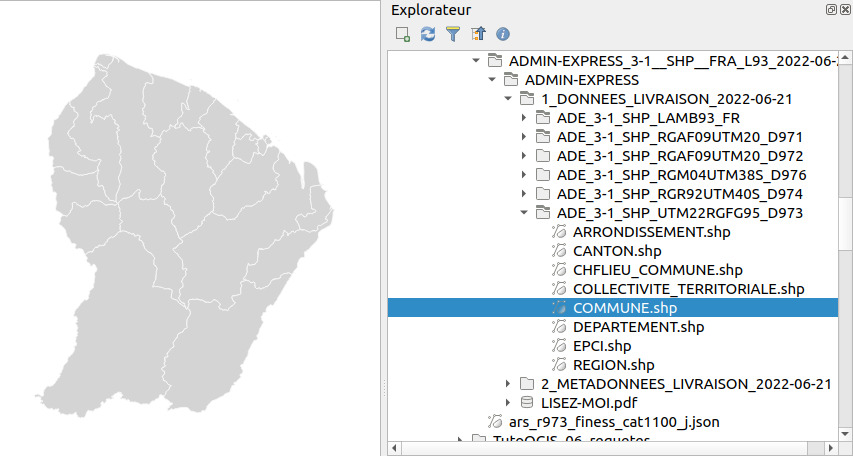
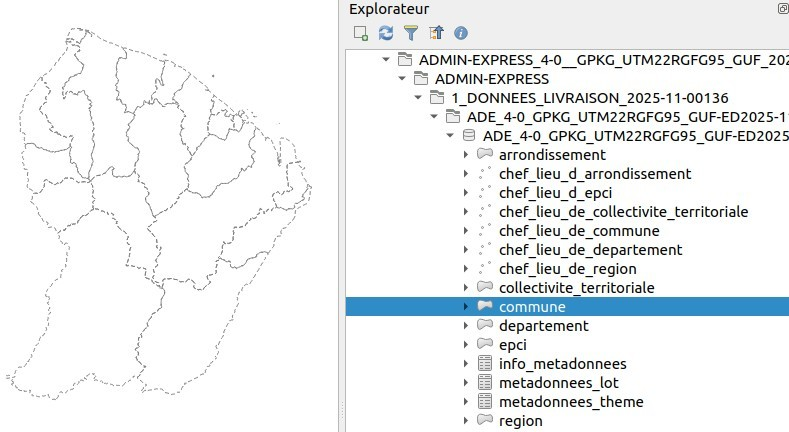
suite maj 340

diff --git a/03_01_donnees_internet.php b/03_01_donnees_internet.php
@@ -28,7 +28,7 @@
 				<br>
 	
 			<p>Il est possible de trouver sur internet des <b>données déjà géoréférencées, c'est-à-dire possédant déjà des coordonnées, donc directement utilisables dans un SIG</b>. Ces données peuvent être vecteur ou raster.</p>
-			<p>Dans le cas de <b>données vecteur</b>, le format le plus courant est sans doute le shapefile ; on trouvera aussi des données dans d'autres formats, par exemple GeoPackage, GeoJSON, KML...</p>
+			<p>Dans le cas de <b>données vecteur</b>, le format le plus courant est peut-être le shapefile ; on trouvera aussi des données dans d'autres formats, par exemple GeoPackage, GeoJSON, KML...</p>
 			<p>Dans le cas de <b>données raster</b>, on pourra trouver par exemple des données au format geotiff (TIF géoréférencé, c'est-à-dire avec des coordonnées lui permettant de se superposer correctement à d'autres couches).</p>
 			<p>Parfois, on ne trouvera que des <b>données non géoréférencées</b> (carte papier par exemple, ou simple image trouvée sur internet). Ce cas sera traité dans la <a href="04_00_georeferencement.php" >partie 4 : géoréférencement</a>.</p>
 			<p>Cette partie se borne à donner quelques exemples de sites permettant le téléchargement de données SIG. Il en existe beaucoup d'autres !</p>
@@ -50,16 +50,15 @@
 							</a>
 						</figure>
 					</div>
-					   <p>La base ADMIN EXPRESS contient des couches de régions, départements, arrondissements, EPCI, communes et chef-lieux pour la France métropolitaine et ultra-marine. Elle remplace la base GEOFLA® qui n'est plus mise à jour et dont la dernière édition est celle de 2016.</p>
+					   <p>La base ADMIN EXPRESS contient des couches de régions, départements, arrondissements, EPCI, communes et chef-lieux pour la France métropolitaine et ultra-marine. Elle remplace la base GEOFLA® qui n'est plus mise à jour et dont la dernière édition est celle de 2016. Il est possible de la télécharger séparément pour la France métropolitaine et les territoires ultramarins, ou bien dans son ensemble.</p>
 					<div class="manip">
-					   <p class="note">Attention, le téléchargement de ces données peut être un peu long (environ 255 Mo pour la version de juin 2022), vous pouvez également utiliser directement la couche <a href="donnees/TutoQGIS_03_RechercheDonnees.zip" ><em class="data">COMMUNE</em></a> disponible en téléchargement.</p>
-					   <p>Téléchargez la dernière édition des données <b>ADMIN EXPRESS par territoire</b> (ici celle de juin 2022) :</p>
+					   <p>Téléchargez la dernière édition des données <b>ADMIN EXPRESS pour le territoire de la Guyane</b> (ici celle de décembre 2025 qui fait 1,1 Mo) :</p>
 					   <figure>
 							<a href="illustrations/3_1_ign_telechargement_2.jpg" >
 								<img src="illustrations/3_1_ign_telechargement_2.jpg" alt="page de téléchargement des données ADMIN EXPRESS (IGN)" width="500">
 							</a>
 						</figure>
-						<p class="note">Vous pouvez également télécharger la version <a class="ext" target="_blank" href="https://geoservices.ign.fr/ressources_documentaires/Espace_documentaire/BASES_VECTORIELLES/ADMIN_EXPRESS_COG/SE_ADMIN_EXPRESS_COG.pdf">COG (Code Officiel Géographique)</a> mais celle-ci est plus lourde.</p>
+						<p class="note">Vous pouvez également utiliser la version COG (Code Officiel Géographique), qui existe dans 2 versions : une version plus généralisée pour des usages cartographiques (COG-CARTO) et une version plus précise pour des usages statistiques (COG).</p>
 						<p>Dézippez le fichier téléchargé (vous pouvez par exemple utiliser <a class="ext" target="_blank" href="https://www.7-zip.org/">7-zip</a>).</p>
 					</div>
 					
@@ -67,49 +66,27 @@
 					
 					<div class="manip">
 					  <p>Une fois le fichier dézippé, vous pouvez constater qu'il contient une arborescence de dossiers complexe. Comment y voir plus clair ?</p>
-					  <p>En commençant par les métadonnées ! Sur la page de téléchargement d'Admin Express, cliquez sur le bouton <a class="ext" target="_blank" href="https://geoservices.ign.fr/documentation/donnees/vecteur/adminexpress" >Documentation</a> puis sur <a class="ext" target="_blank" href="https://geoservices.ign.fr/sites/default/files/2021-11/DC_DL_ADMIN_EXPRESS_3-1_0.pdf" >ADMIN EXPRESS - Descriptif de contenu et de livraison</a>, ce qui ouvre un fichier PDF.</p>
-					  <p>En parcourant ce PDF, vous en saurez plus sur les données que vous venez de télécharger. Vous y trouverez notamment page 7 la liste des différents SCR utilisés pour la France métropolitaine ainsi que pour l'Outre-Mer : le SCR utilisé pour la Guyane est le <b>RGF95 UTM 22, code EPSG 2972</b>.</p>
+					  <p>En commençant par les métadonnées ! Sur la page de téléchargement d'Admin Express, cliquez sur le bouton <a class="ext" target="_blank" href="https://geoservices.ign.fr/documentation/donnees/vecteur/adminexpress" >Documentation</a> dans la partie droite puis sur <a class="ext" target="_blank" href="https://geoservices.ign.fr/sites/default/files/2021-11/DC_DL_ADMIN_EXPRESS_3-1_0.pdf" >ADMIN EXPRESS - Descriptif de contenu</a>, ce qui ouvre un fichier PDF.</p>
+					  <p>En parcourant ce PDF, vous en saurez plus sur les données que vous venez de télécharger. Vous y trouverez notamment page dans la partie 2.3 <em>Références géodésiques</em> la liste des différents SCR utilisés pour la France métropolitaine ainsi que pour l'Outre-Mer : le SCR utilisé pour la Guyane est le <b>RGFG95 UTM 22, code EPSG 2972</b>.</p>
 					</div>
 					
 					<p>Pour rappel, le but de l'exercice est ici d'afficher les communes de la Guyane, mais vous pouvez très bien décider de travailler sur un autre département !</p>
 					
 					<div class="manip">
-					  <p>La couche <em class="data">COMMUNE</em> de la Guyane est donc située dans le sous-dossier <b>ADE_X-X_SHP_UTM22RGFG95_D973</b> où :</p>
+					  <p>La couche <em class="data">COMMUNE</em> de la Guyane est donc située dans le dossier <b>1_DONNEES_LIVRAISON_...</b> puis dans le sous-dossier<b>ADE_X-X_GPKG_UTM22RGFG95_GUF</b> où :</p>
 					  <ul>
-					   <li><b>X-X</b> correspond à la version d'ADMIN EXPRESS téléchargée, par exemple 3-1</li>
-					   <li><b>UTM22RGF95</b> correspond au SCR des données (voir plus haut)</li>
-					   <li><b>D973</b> est le code du département</li>
+					   <li><b>X-X</b> correspond à la version d'ADMIN EXPRESS téléchargée, par exemple 4-0</li>
+					   <li><b>UTM22RGFG95</b> correspond au SCR des données (voir plus haut)</li>
+					   <li><b>GUF</b> signifie Guyane française</li>
 					  </ul>
-						<p>A partir de l'explorateur de fichiers de QGIS, ajoutez les communes de Guyane à la carte.</p>
+						<p>A partir de l'explorateur de fichiers de QGIS, ajoutez les communes de Guyane à la carte, dans un nouveau projet vide.</p>
 						<figure>
 							<a href="illustrations/3_1_commune_guyane_explorateur.jpg" >
 								<img src="illustrations/3_1_commune_guyane_explorateur.jpg" alt="ajout de la couche de communes de Guyane via l'explorateur QGIS" width="600">
 							</a>
 						</figure>
-						<p>Selon votre version de QGIS et votre configuration, une fenêtre peut alors s'ouvrir pour vous demander quelle transformation vous souhaitez utiliser pour passer du SCR RGFG95 (utilisé en Guyane) et WGS84. Dans ce cas, choisissez la 1ère de ces transformations, normalement sélectionnée par défaut.</p>
-						<figure>
-							<a href="illustrations/3_1_choix_transformation.jpg" >
-								<img src="illustrations/3_1_choix_transformation.jpg" alt="Choix de la transformation pour passer d'un SCR à un autre" width="600">
-							</a>
-						</figure>
+						<p>Si les données ne s'affichent pas, vérifiez que cela n'est pas dû à une visibilité dépendant de l'échelle (la couche s'affiche ou non suivant le niveau de zoom) : <b>propriétés de la couche &#8594; Rendu</b>, décochez la case <b>Visibilité dépendante de l'échelle</b>.</p>
 					</div>
-					
-					<p class="note">Il semblerait que les 2 transformations disponibles ici aient les mêmes paramètres. Pour ajouter ou supprimer des transformations dans un projet : Propriétés du projet &#8594; rubrique Transformations.</p>
-					
-					<p>Les <a class="ext" target="_blank" href="https://docs.qgis.org/3.10/fr/docs/user_manual/working_with_projections/working_with_projections.html#datum-transformations">transformations</a> sont des formules mathématiques permettant la conversion des coordonnées d'un point d'un SCR à un autre. Il existe en effet parfois plusieurs transformations possibles pour passer d'un SCR à un autre !</p>
-					
-					<div class="manip">
-					   <p>Il est possible de paramétrer QGIS pour être informé ou non lorsqu'il existe plusieurs transformations disponibles entre 2 SCR :</p>
-					   <p><b>Menu Préférences &#8594; Options &#8594; rubrique Transformations</b> : vous pouvez décocher ou cocher la case <b>Demander de choisir la transformation de datum si plusieurs sont disponibles</b>.</p>
-					   <figure>
-							<a href="illustrations/3_1_options_transformations.jpg" >
-								<img src="illustrations/3_1_options_transformations.jpg" alt="Choix de l'option pour choisir soi-même ou non la transformation lorsque plusieurs sont disponibles" width="600">
-							</a>
-						</figure>
-						<p>Si cette case est décochée, QGIS choisira la transformation la plus précise : dans la plupart des cas, ce paramétrage est adapté.</p>
-					</div>
-					
-					<p>Dans les données téléchargées sur le site de l'IGN se trouvent également les autres découpages administratifs pour la Guyane, ainsi que pour les autres territoires ultra-marins et la France métropolitaine.</p>
 					
 					<p class="note">Pour télécharger les données de l'IGN, vous pouvez également passer par <a class="ext" target="_blank" href="https://geotribu.github.io/ign-fr-opendata-download-ui/index.html" >ign2map</a> (et profitez-en pour aller faire un tour sur l'excellent site <a class="ext" target="_blank" href="https://static.geotribu.fr/" >Geotribu</a> !)</p>
 					

diff --git a/01_03_formats.php b/01_03_formats.php
@@ -102,6 +102,8 @@
 				    <h4>Et bien d'autres...<a class="headerlink" id="I31d" href="#I31d"></a></h4>
 				    
 				        <p>Il existe de nombreux autres formats de fichiers vecteur lisibles par QGIS. Citons par exemple le <b>GeoJSON</b>, utilisé notamment pour les cartes interactives en ligne, le <b>KML</b>, utilisé par Google Maps et Google Earth...</p>
+				        
+				        <p>QGIS utilise la bibliothèque <a class="ext" target="_blank" href="https://gdal.org/">GDAL</a> pour lire tous ces différents formats. Vous trouverez donc ici la liste de tous les formats vecteur que QGIS peut ouvrir : <a class="ext" target="_blank" href="https://gdal.org/en/latest/drivers/vector/" >https://gdal.org/en/latest/drivers/vector/</a>.</p>
 	
 				<h3>Un exemple de format raster : le GeoTIFF<a class="headerlink" id="I32" href="#I32"></a></h3>
 				
@@ -122,6 +124,8 @@
 					</ul>
 					
 				  <p class="note">Pour en savoir plus sur ce format, vous pouvez lire cet article (en anglais) sur <a class="ext" target="_blank" href="https://blogs.loc.gov/maps/2023/05/the-secret-life-of-geotiffs/" >la vie secrète des GeoTIFFs</a>&nbsp;!</p>
+				  
+				  <p>De même que pour les données vecteur, QGIS utilise GDAL pour lire les différents formats raster, pour voir la liste : <a class="ext" target="_blank" href="https://gdal.org/en/latest/drivers/raster/" >https://gdal.org/en/latest/drivers/raster/</a></p>
 				
 				<h3>Quel format utiliser parmi tout ça ?<a class="headerlink" id="I33" href="#I33"></a></h3>
 				
